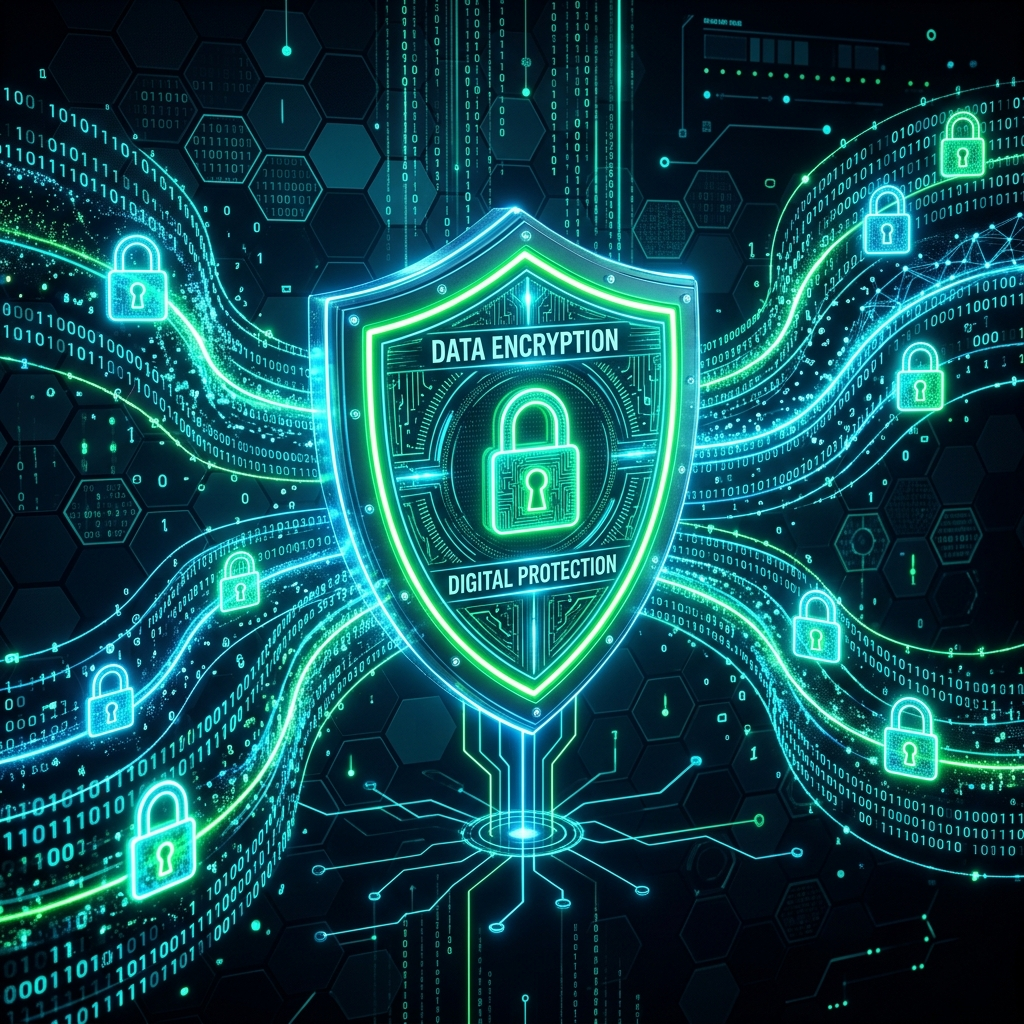
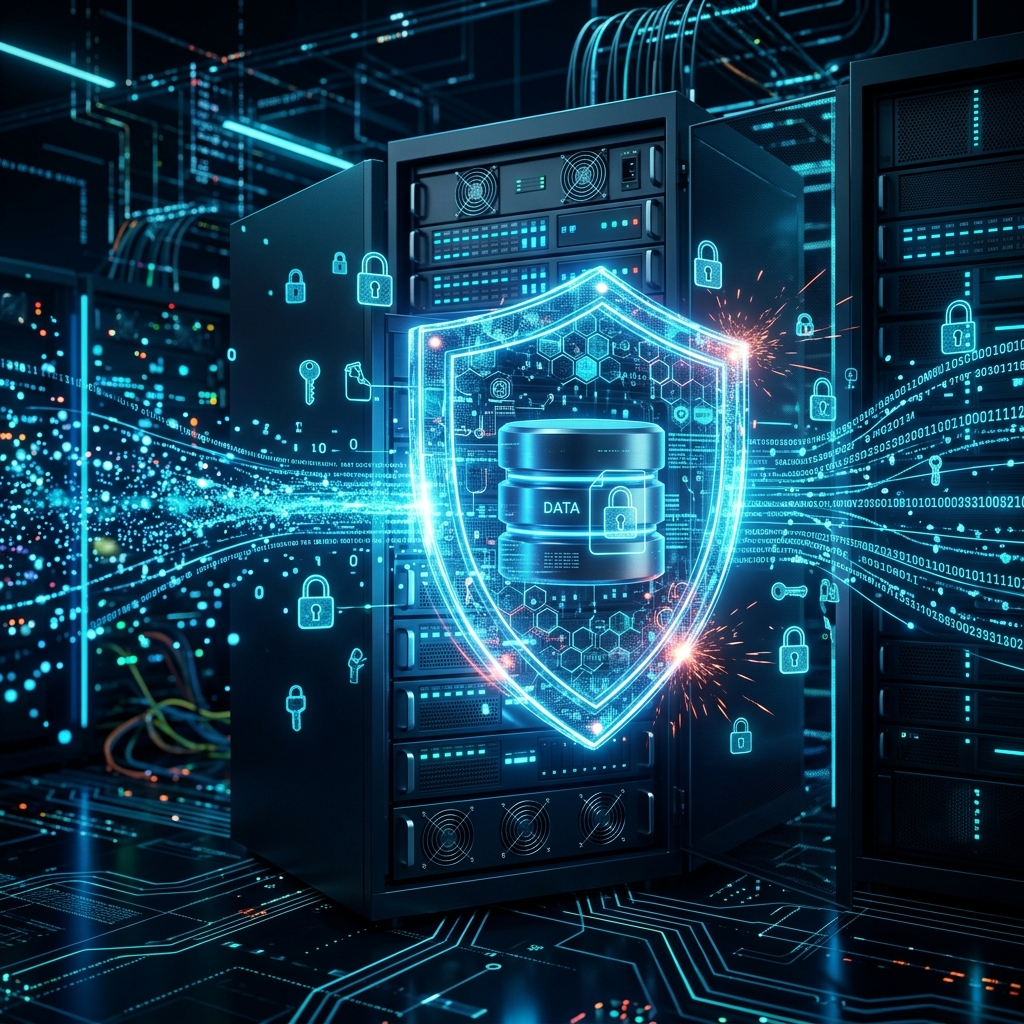
feat: add cybersecurity images - SOC dashboard, ethical hacking, threat detection, network security, data protection

diff --git a/src/components/Services.tsx b/src/components/Services.tsx
@@ -12,7 +12,7 @@ const services = [
     desc:  'Round-the-clock monitoring with a fully managed SOC — SIEM, XDR, HIDS, FIM, VA and XOAR in one vendor-agnostic platform built with AI, ML and human intelligence.',
     points: ['24/7 real-time monitoring & alerting', 'AI-driven threat detection & correlation', 'Automated incident response (XOAR)', 'Compliance reporting (ISO 27001, PCI-DSS, HIPAA)'],
     href:  '#nativesoc',
-    img:   '/NativeDefence-/cyber_soc_dashboard.png',
+    img:   '/NativeDefence-/cyber_soc_dashboard.jpeg',
   },
   {
     num:   '02',
@@ -30,7 +30,7 @@ const services = [
     desc:  'Upskill your security teams with hands-on courses, certifications and live threat simulations from industry experts with decades of real-world SOC experience.',
     points: ['Live instructor-led online sessions', 'Threat hunting & SOC analyst workshops', 'Industry-recognised certifications', 'Custom enterprise curricula & labs'],
     href:  '/academy',
-    img:   '/NativeDefence-/cyber_security_team.png',
+    img:   '/NativeDefence-/cyber_security_team.jpeg',
   },
   {
     num:   '04',
@@ -184,13 +184,13 @@ function ServiceRow({ service, delay, inView }: { service: typeof services[0]; d
           {/* Image */}
           <div className="sm:w-48 flex-shrink-0">
             <div
-              className="rounded-xl overflow-hidden"
-              style={{ border: '1px solid rgba(0,229,255,0.12)' }}
+              className="rounded-xl overflow-hidden group/img"
+              style={{ border: '1px solid rgba(0,229,255,0.12)', boxShadow: '0 0 20px rgba(0,0,0,0.3), 0 0 10px rgba(0,229,255,0.05)' }}
             >
               <img
                 src={service.img}
                 alt={service.title}
-                className="w-full h-32 object-cover"
+                className="w-full h-32 object-cover transition-transform duration-700 group-hover/img:scale-110"
                 style={{ filter: 'brightness(0.85) saturate(1.1)' }}
               />
             </div>

diff --git a/src/components/NativeSOC.tsx b/src/components/NativeSOC.tsx
@@ -84,7 +84,7 @@ export default function NativeSOC() {
 
         {/* Dashboard image */}
         <div
-          className={`mb-12 rounded-2xl overflow-hidden reveal ${inView ? 'in-view' : ''}`}
+          className={`mb-12 rounded-2xl overflow-hidden reveal group ${inView ? 'in-view' : ''}`}
           style={{
             border: '1px solid rgba(0,229,255,0.12)',
             transitionDelay: '80ms',
@@ -92,9 +92,9 @@ export default function NativeSOC() {
           }}
         >
           <img
-            src="/NativeDefence-/cyber_network_protection.png"
-            alt="Cybersecurity Network Protection Platform"
-            className="w-full h-64 md:h-80 object-cover"
+            src="/NativeDefence-/cyber_threat_detection.png"
+            alt="Cybersecurity Threat Detection Command Center"
+            className="w-full h-64 md:h-80 object-cover transition-transform duration-700 group-hover:scale-105"
             style={{ filter: 'brightness(0.85) saturate(1.2)' }}
           />
           <div

diff --git a/src/components/About.tsx b/src/components/About.tsx
@@ -107,13 +107,13 @@ export default function About() {
 
             {/* SOC image */}
             <div
-              className="mb-8 rounded-2xl overflow-hidden"
-              style={{ border: '1px solid rgba(0,229,255,0.12)' }}
+              className="mb-8 rounded-2xl overflow-hidden group"
+              style={{ border: '1px solid rgba(0,229,255,0.12)', boxShadow: '0 0 30px rgba(0,0,0,0.4), 0 0 15px rgba(0,229,255,0.05)' }}
             >
               <img
-                src="/NativeDefence-/cyber_soc_dashboard.png"
+                src="/NativeDefence-/cyber_soc_dashboard.jpeg"
                 alt="Cybersecurity SOC Operations Center"
-                className="w-full h-48 object-cover"
+                className="w-full h-56 object-cover transition-transform duration-700 group-hover:scale-105"
                 style={{ filter: 'brightness(0.9) saturate(1.1)' }}
               />
             </div>
